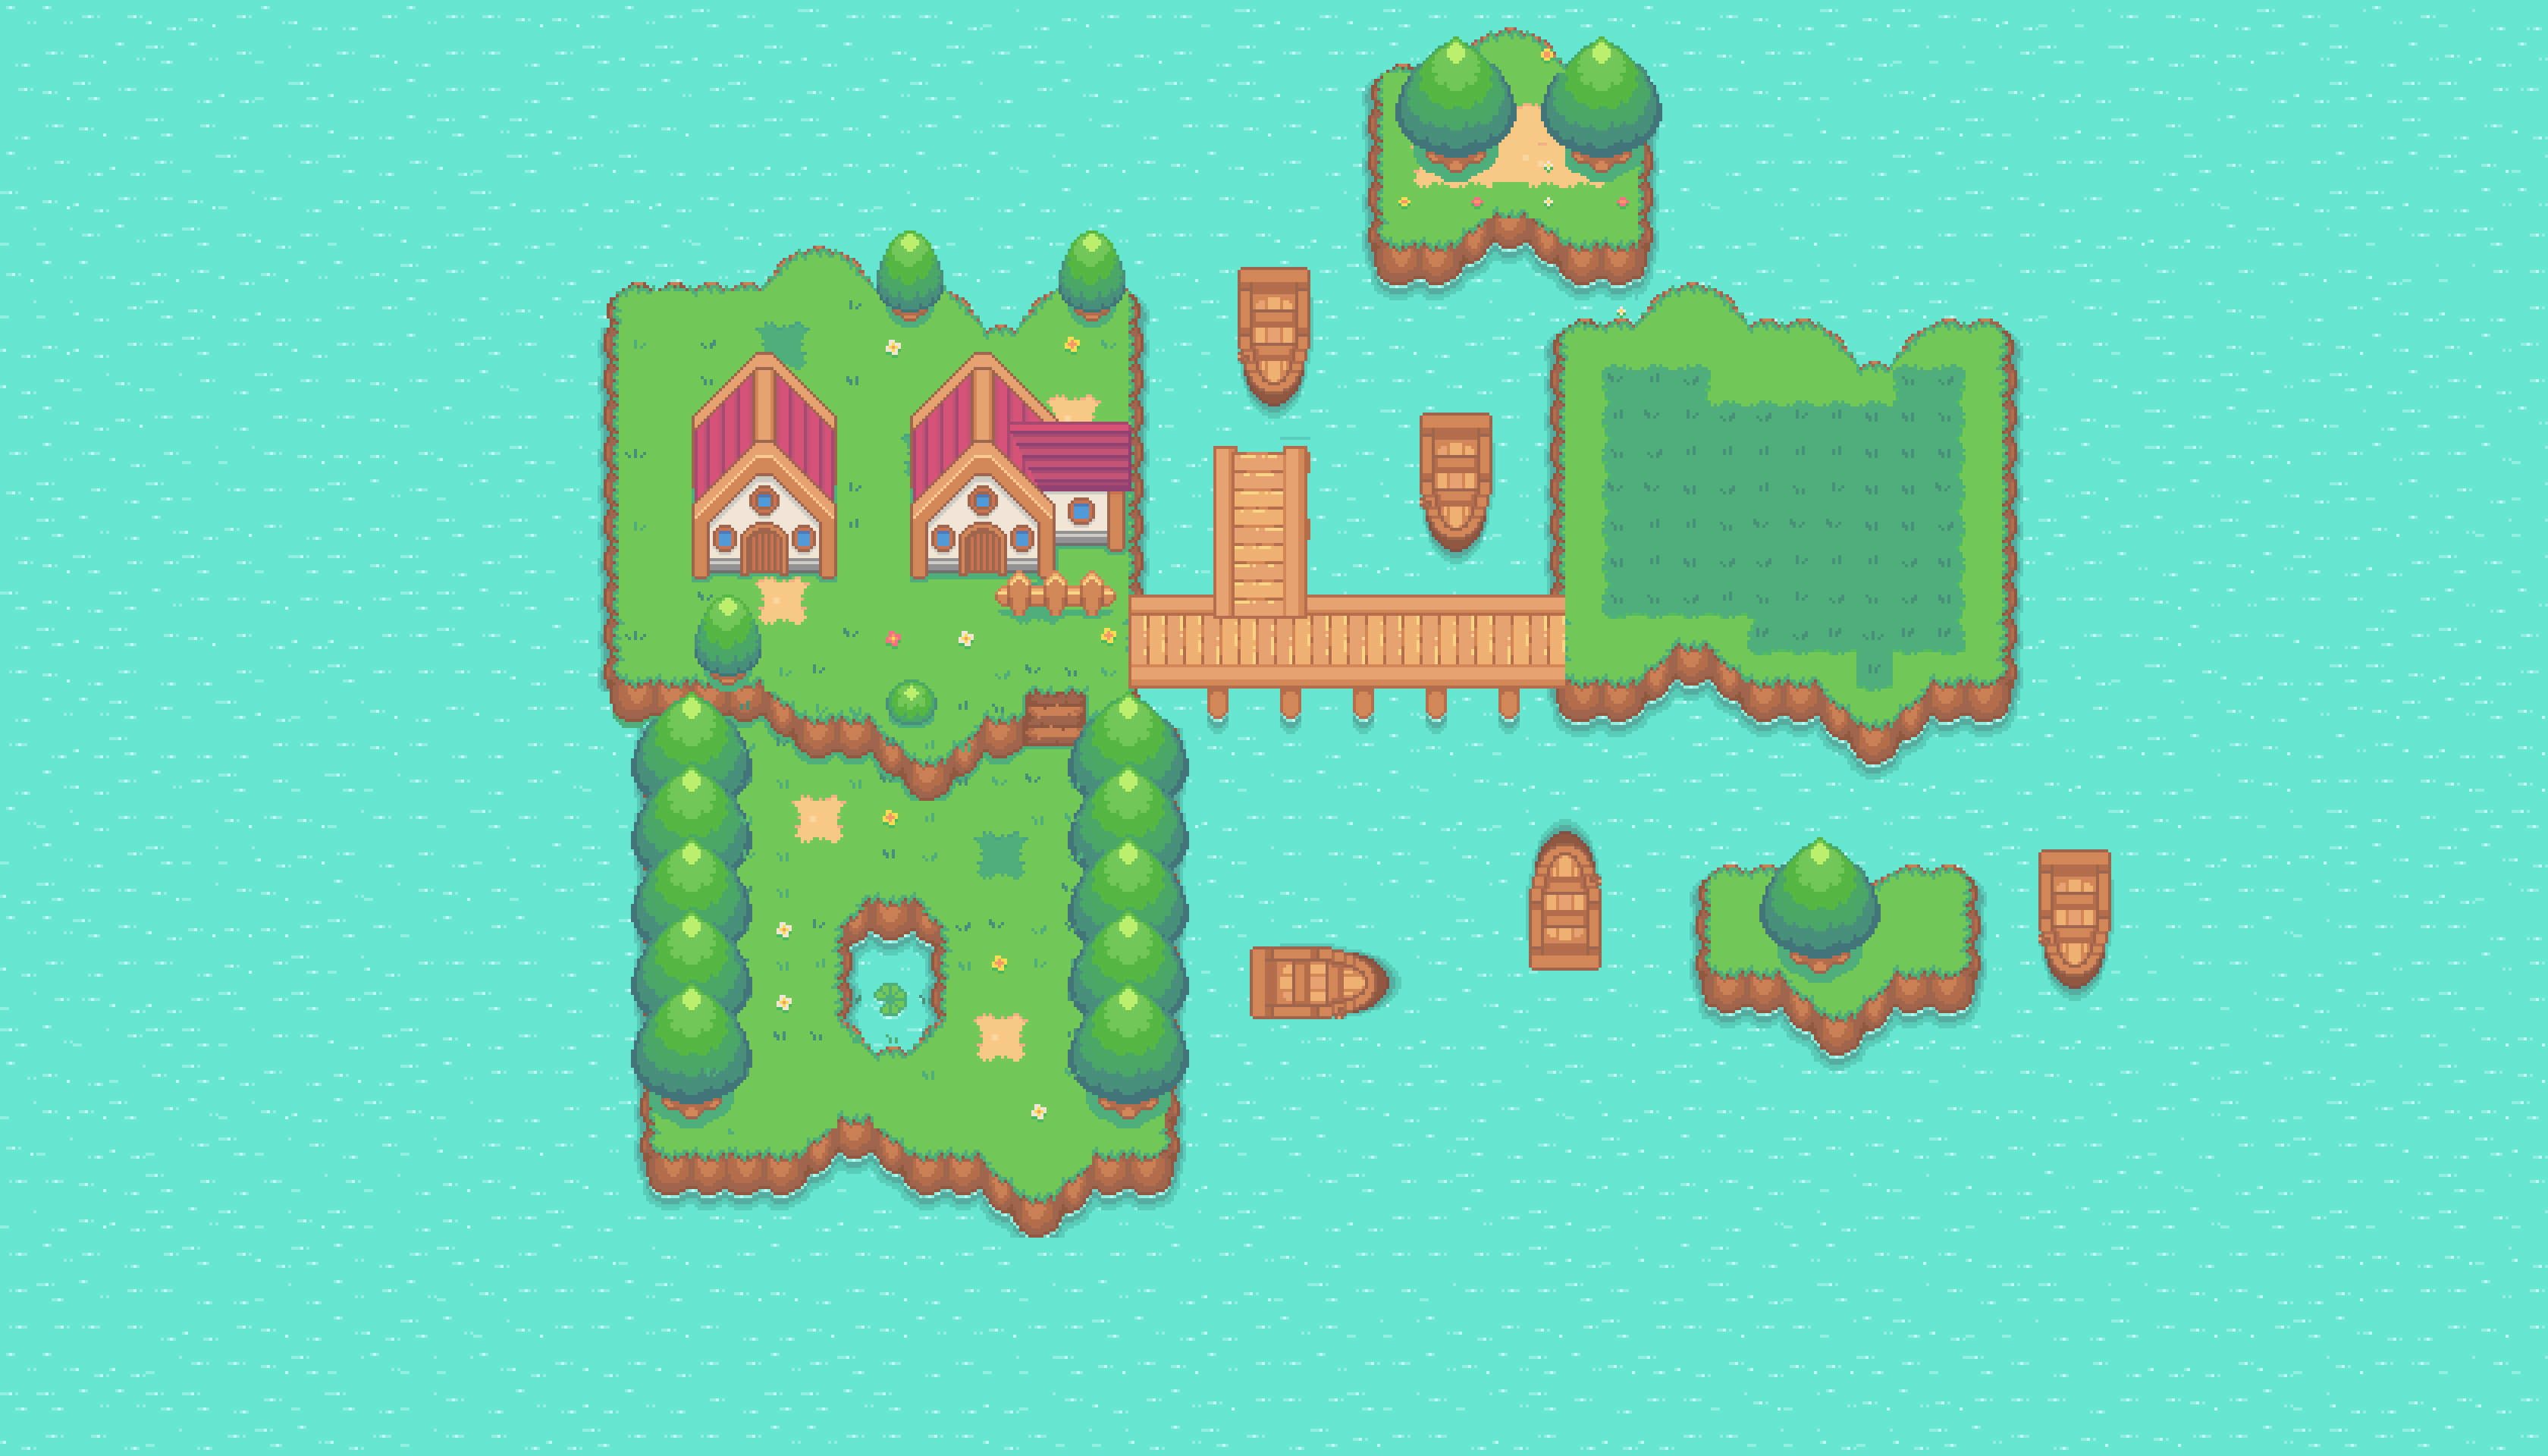
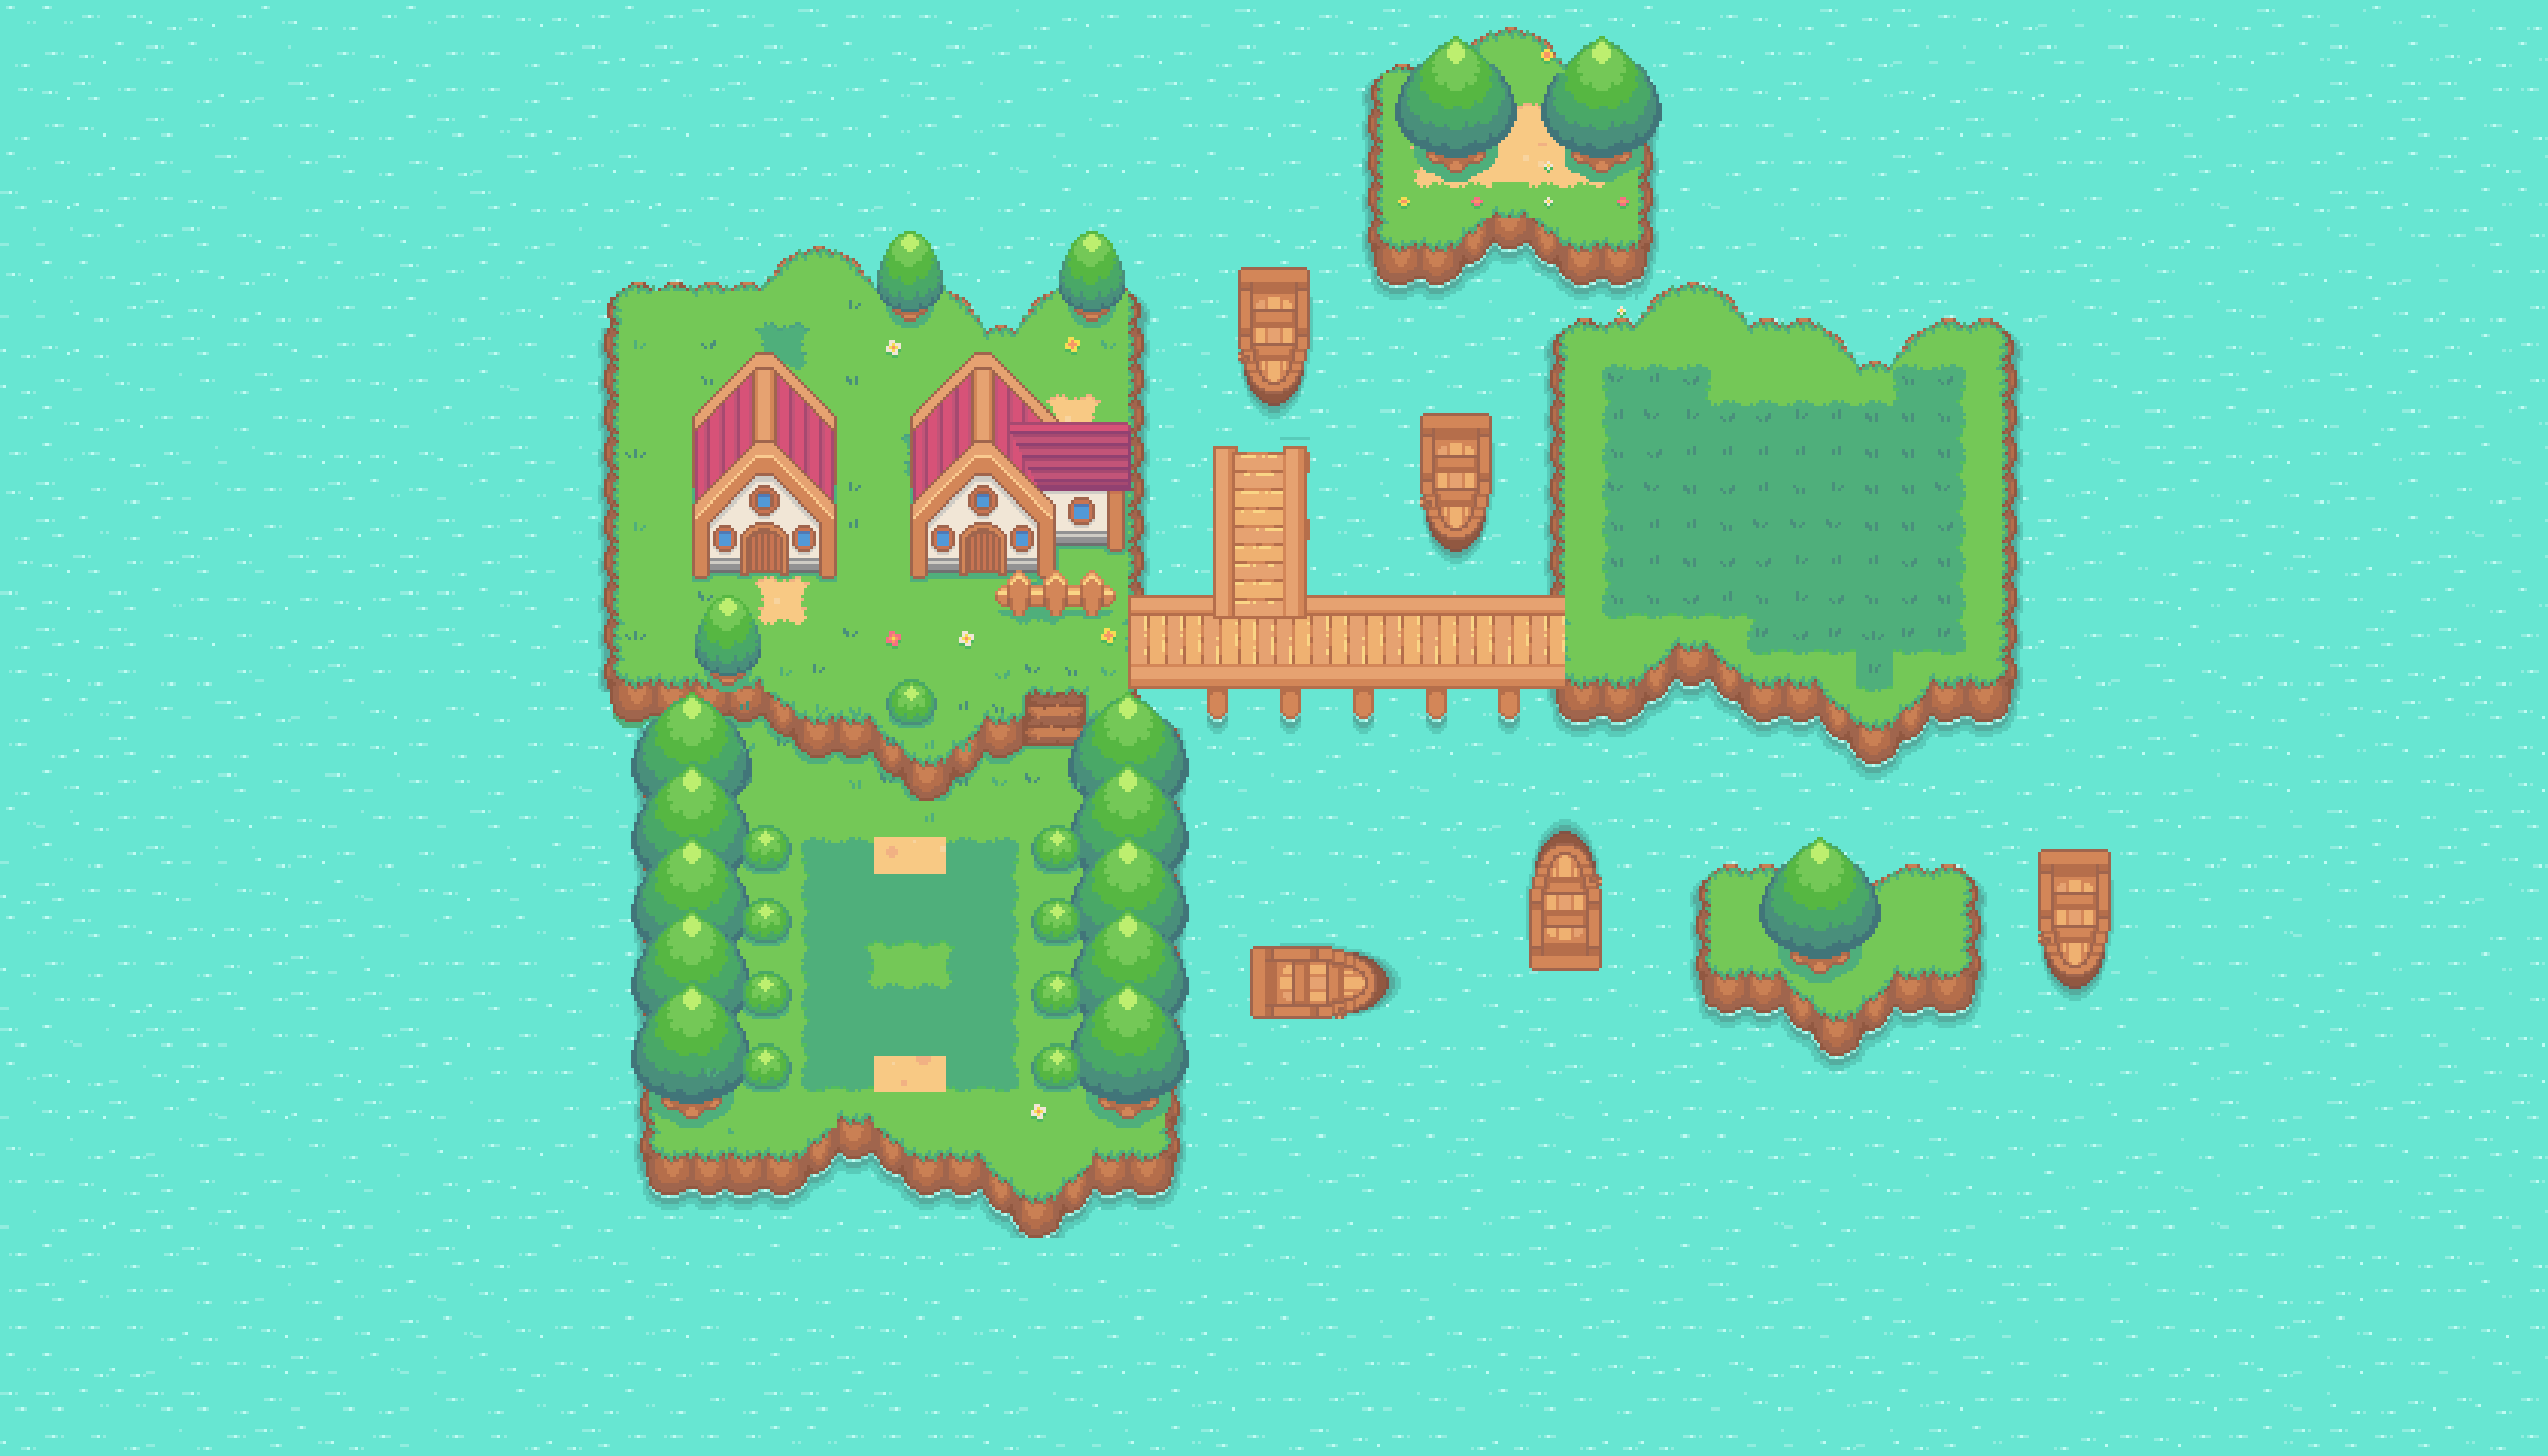
Mapa nuevo

Changed region(s): [[0.2812, 0.5312, 0.4375, 0.75]]

diff --git a/battle.js b/battle.js
@@ -6,6 +6,89 @@ const TIEMPO_CONTEO_CAPTURA = 1000;
 const TIEMPO_RESULTADO_BATALLA = 1800;
 const TIEMPO_ENTRE_ATAQUES = 1500;
 const PROBABILIDAD_CAPTURA = 0.45;
+const NIVEL_BASE_PIKACHU = 25;
+const EXP_POR_VICTORIA = 10;
+const EXP_PARA_SUBIR_NIVEL = 20;
+const NIVEL_MIN_RIVAL = 10;
+const NIVEL_MAX_RIVAL = 50;
+
+let estadisticasPikachu = {
+    nivel: NIVEL_BASE_PIKACHU,
+    experiencia: 0
+};
+
+let nivelRivalActual = 23;
+
+function actualizarPanelNiveles() {
+    const nivelPikachu = document.querySelector('#nivelPikachu');
+    const nivelRival = document.querySelector('#nivelRival');
+    const expPikachu = document.querySelector('#EXP_jugador');
+
+    if (nivelPikachu) nivelPikachu.textContent = `Lv.${estadisticasPikachu.nivel}`;
+    if (nivelRival) nivelRival.textContent = `Lv.${nivelRivalActual}`;
+    if (expPikachu) expPikachu.textContent = `EXP ${estadisticasPikachu.experiencia}/${EXP_PARA_SUBIR_NIVEL}`;
+}
+
+function aplicarEstadisticasPikachu(estadisticas = {}) {
+    estadisticasPikachu.nivel = Number(estadisticas.nivel) || NIVEL_BASE_PIKACHU;
+    estadisticasPikachu.experiencia = Number(estadisticas.experiencia) || 0;
+
+    while (estadisticasPikachu.experiencia >= EXP_PARA_SUBIR_NIVEL) {
+        estadisticasPikachu.nivel++;
+        estadisticasPikachu.experiencia -= EXP_PARA_SUBIR_NIVEL;
+    }
+
+    actualizarPanelNiveles();
+}
+
+function obtenerEstadisticasPikachu() {
+    return {
+        nivel: estadisticasPikachu.nivel,
+        experiencia: estadisticasPikachu.experiencia
+    };
+}
+
+function generarNivelRival() {
+    return Math.floor(Math.random() * (NIVEL_MAX_RIVAL - NIVEL_MIN_RIVAL + 1)) + NIVEL_MIN_RIVAL;
+}
+
+function prepararNuevaBatalla() {
+    nivelRivalActual = generarNivelRival();
+    charmander.nivel = nivelRivalActual;
+    battleActivo.victoriaRegistrada = false;
+    actualizarPanelNiveles();
+}
+
+function registrarVictoriaPikachu() {
+    if (!battleActivo.initiated || battleActivo.victoriaRegistrada) {
+        return {
+            experienciaGanada: 0,
+            subioNivel: false,
+            nivelActual: estadisticasPikachu.nivel
+        };
+    }
+
+    battleActivo.victoriaRegistrada = true;
+    estadisticasPikachu.experiencia += EXP_POR_VICTORIA;
+
+    let subioNivel = false;
+
+    while (estadisticasPikachu.experiencia >= EXP_PARA_SUBIR_NIVEL) {
+        estadisticasPikachu.nivel++;
+        estadisticasPikachu.experiencia -= EXP_PARA_SUBIR_NIVEL;
+        subioNivel = true;
+    }
+
+    actualizarPanelNiveles();
+
+    return {
+        experienciaGanada: EXP_POR_VICTORIA,
+        subioNivel,
+        nivelActual: estadisticasPikachu.nivel
+    };
+}
+
+actualizarPanelNiveles();
 
 // PF3
 // PF3
@@ -92,6 +175,7 @@ function intentarCapturarPokemon() {
 
     const pokemonCapturado = {
         nombre: charmander.name,
+        nivel: charmander.nivel || nivelRivalActual,
         fecha: new Date().toISOString()
     };
     const intentosHastaResultado = Math.random() < PROBABILIDAD_CAPTURA
@@ -221,7 +305,7 @@ function attack(attacker, { attack, recipient, renderSprites }) {
 
     // PF3
     document.querySelector('#dialogoBox').style.display = 'block'
-    document.querySelector('#dialogoBox').innerHTML = attacker.name + ' us?? ' + attack.name;
+    document.querySelector('#dialogoBox').innerHTML = attacker.name + ' usó ' + attack.name;
     const timeLine = gsap.timeline();
 
     // PF3
@@ -463,7 +547,7 @@ function attack(attacker, { attack, recipient, renderSprites }) {
 }
 
 // PF3
-const battleActivo = { initiated: false }
+const battleActivo = { initiated: false, victoriaRegistrada: false }
 
 // PF3
 // PF3

diff --git a/data/arenabattle.js b/data/arenabattle.js
@@ -1,0 +1,40 @@
+const arenaBattle = [0, 0, 0, 0, 0, 0, 0, 0, 0, 0, 0, 0, 0, 0, 0, 0, 0, 0, 0, 0, 0, 0, 0, 0, 0, 0, 0, 0, 0, 0, 0, 0, 0, 0, 0, 0, 0, 0, 0, 0, 0, 0, 0, 0, 0, 0, 0, 0, 0, 0, 0, 0, 0, 0, 0, 0, 0, 0, 0, 0, 0, 0, 0, 0, 0, 0, 0, 0, 0, 0,
+    0, 0, 0, 0, 0, 0, 0, 0, 0, 0, 0, 0, 0, 0, 0, 0, 0, 0, 0, 0, 0, 0, 0, 0, 0, 0, 0, 0, 0, 0, 0, 0, 0, 0, 0, 0, 0, 0, 0, 0, 0, 0, 0, 0, 0, 0, 0, 0, 0, 0, 0, 0, 0, 0, 0, 0, 0, 0, 0, 0, 0, 0, 0, 0, 0, 0, 0, 0, 0, 0,
+    0, 0, 0, 0, 0, 0, 0, 0, 0, 0, 0, 0, 0, 0, 0, 0, 0, 0, 0, 0, 0, 0, 0, 0, 0, 0, 0, 0, 0, 0, 0, 0, 0, 0, 0, 0, 0, 0, 0, 0, 0, 0, 0, 0, 0, 0, 0, 0, 0, 0, 0, 0, 0, 0, 0, 0, 0, 0, 0, 0, 0, 0, 0, 0, 0, 0, 0, 0, 0, 0,
+    0, 0, 0, 0, 0, 0, 0, 0, 0, 0, 0, 0, 0, 0, 0, 0, 0, 0, 0, 0, 0, 0, 0, 0, 0, 0, 0, 0, 0, 0, 0, 0, 0, 0, 0, 0, 0, 0, 0, 0, 0, 0, 0, 0, 0, 0, 0, 0, 0, 0, 0, 0, 0, 0, 0, 0, 0, 0, 0, 0, 0, 0, 0, 0, 0, 0, 0, 0, 0, 0,
+    0, 0, 0, 0, 0, 0, 0, 0, 0, 0, 0, 0, 0, 0, 0, 0, 0, 0, 0, 0, 0, 0, 0, 0, 0, 0, 0, 0, 0, 0, 0, 0, 0, 0, 0, 0, 0, 0, 0, 0, 0, 0, 0, 0, 0, 0, 0, 0, 0, 0, 0, 0, 0, 0, 0, 0, 0, 0, 0, 0, 0, 0, 0, 0, 0, 0, 0, 0, 0, 0,
+    0, 0, 0, 0, 0, 0, 0, 0, 0, 0, 0, 0, 0, 0, 0, 0, 0, 0, 0, 0, 0, 0, 0, 0, 0, 0, 0, 0, 0, 0, 0, 0, 0, 0, 0, 0, 0, 0, 0, 0, 0, 0, 0, 0, 0, 0, 0, 0, 0, 0, 0, 0, 0, 0, 0, 0, 0, 0, 0, 0, 0, 0, 0, 0, 0, 0, 0, 0, 0, 0,
+    0, 0, 0, 0, 0, 0, 0, 0, 0, 0, 0, 0, 0, 0, 0, 0, 0, 0, 0, 0, 0, 0, 0, 0, 0, 0, 0, 0, 0, 0, 0, 0, 0, 0, 0, 0, 0, 0, 0, 0, 0, 0, 0, 0, 0, 0, 0, 0, 0, 0, 0, 0, 0, 0, 0, 0, 0, 0, 0, 0, 0, 0, 0, 0, 0, 0, 0, 0, 0, 0,
+    0, 0, 0, 0, 0, 0, 0, 0, 0, 0, 0, 0, 0, 0, 0, 0, 0, 0, 0, 0, 0, 0, 0, 0, 0, 0, 0, 0, 0, 0, 0, 0, 0, 0, 0, 0, 0, 0, 0, 0, 0, 0, 0, 0, 0, 0, 0, 0, 0, 0, 0, 0, 0, 0, 0, 0, 0, 0, 0, 0, 0, 0, 0, 0, 0, 0, 0, 0, 0, 0,
+    0, 0, 0, 0, 0, 0, 0, 0, 0, 0, 0, 0, 0, 0, 0, 0, 0, 0, 0, 0, 0, 0, 0, 0, 0, 0, 0, 0, 0, 0, 0, 0, 0, 0, 0, 0, 0, 0, 0, 0, 0, 0, 0, 0, 0, 0, 0, 0, 0, 0, 0, 0, 0, 0, 0, 0, 0, 0, 0, 0, 0, 0, 0, 0, 0, 0, 0, 0, 0, 0,
+    0, 0, 0, 0, 0, 0, 0, 0, 0, 0, 0, 0, 0, 0, 0, 0, 0, 0, 0, 0, 0, 0, 0, 0, 0, 0, 0, 0, 0, 0, 0, 0, 0, 0, 0, 0, 0, 0, 0, 0, 0, 0, 0, 0, 0, 0, 0, 0, 0, 0, 0, 0, 0, 0, 0, 0, 0, 0, 0, 0, 0, 0, 0, 0, 0, 0, 0, 0, 0, 0,
+    0, 0, 0, 0, 0, 0, 0, 0, 0, 0, 0, 0, 0, 0, 0, 0, 0, 0, 0, 0, 0, 0, 0, 0, 0, 0, 0, 0, 0, 0, 0, 0, 0, 0, 0, 0, 0, 0, 0, 0, 0, 0, 0, 0, 0, 0, 0, 0, 0, 0, 0, 0, 0, 0, 0, 0, 0, 0, 0, 0, 0, 0, 0, 0, 0, 0, 0, 0, 0, 0,
+    0, 0, 0, 0, 0, 0, 0, 0, 0, 0, 0, 0, 0, 0, 0, 0, 0, 0, 0, 0, 0, 0, 0, 0, 0, 0, 0, 0, 0, 0, 0, 0, 0, 0, 0, 0, 0, 0, 0, 0, 0, 0, 0, 0, 0, 0, 0, 0, 0, 0, 0, 0, 0, 0, 0, 0, 0, 0, 0, 0, 0, 0, 0, 0, 0, 0, 0, 0, 0, 0,
+    0, 0, 0, 0, 0, 0, 0, 0, 0, 0, 0, 0, 0, 0, 0, 0, 0, 0, 0, 0, 0, 0, 0, 0, 0, 0, 0, 0, 0, 0, 0, 0, 0, 0, 0, 0, 0, 0, 0, 0, 0, 0, 0, 0, 0, 0, 0, 0, 0, 0, 0, 0, 0, 0, 0, 0, 0, 0, 0, 0, 0, 0, 0, 0, 0, 0, 0, 0, 0, 0,
+    0, 0, 0, 0, 0, 0, 0, 0, 0, 0, 0, 0, 0, 0, 0, 0, 0, 0, 0, 0, 0, 0, 0, 0, 0, 0, 0, 0, 0, 0, 0, 0, 0, 0, 0, 0, 0, 0, 0, 0, 0, 0, 0, 0, 0, 0, 0, 0, 0, 0, 0, 0, 0, 0, 0, 0, 0, 0, 0, 0, 0, 0, 0, 0, 0, 0, 0, 0, 0, 0,
+    0, 0, 0, 0, 0, 0, 0, 0, 0, 0, 0, 0, 0, 0, 0, 0, 0, 0, 0, 0, 0, 0, 0, 0, 0, 0, 0, 0, 0, 0, 0, 0, 0, 0, 0, 0, 0, 0, 0, 0, 0, 0, 0, 0, 0, 0, 0, 0, 0, 0, 0, 0, 0, 0, 0, 0, 0, 0, 0, 0, 0, 0, 0, 0, 0, 0, 0, 0, 0, 0,
+    0, 0, 0, 0, 0, 0, 0, 0, 0, 0, 0, 0, 0, 0, 0, 0, 0, 0, 0, 0, 0, 0, 0, 0, 0, 0, 0, 0, 0, 0, 0, 0, 0, 0, 0, 0, 0, 0, 0, 0, 0, 0, 0, 0, 0, 0, 0, 0, 0, 0, 0, 0, 0, 0, 0, 0, 0, 0, 0, 0, 0, 0, 0, 0, 0, 0, 0, 0, 0, 0,
+    0, 0, 0, 0, 0, 0, 0, 0, 0, 0, 0, 0, 0, 0, 0, 0, 0, 0, 0, 0, 0, 0, 0, 0, 0, 0, 0, 0, 0, 0, 0, 0, 0, 0, 0, 0, 0, 0, 0, 0, 0, 0, 0, 0, 0, 0, 0, 0, 0, 0, 0, 0, 0, 0, 0, 0, 0, 0, 0, 0, 0, 0, 0, 0, 0, 0, 0, 0, 0, 0,
+    0, 0, 0, 0, 0, 0, 0, 0, 0, 0, 0, 0, 0, 0, 0, 0, 0, 0, 0, 0, 0, 0, 0, 0, 0, 0, 0, 0, 0, 0, 0, 0, 0, 0, 0, 0, 0, 0, 0, 0, 0, 0, 0, 0, 0, 0, 0, 0, 0, 0, 0, 0, 0, 0, 0, 0, 0, 0, 0, 0, 0, 0, 0, 0, 0, 0, 0, 0, 0, 0,
+    0, 0, 0, 0, 0, 0, 0, 0, 0, 0, 0, 0, 0, 0, 0, 0, 0, 0, 0, 0, 0, 0, 0, 0, 0, 0, 0, 0, 0, 0, 0, 0, 0, 0, 0, 0, 0, 0, 0, 0, 0, 0, 0, 0, 0, 0, 0, 0, 0, 0, 0, 0, 0, 0, 0, 0, 0, 0, 0, 0, 0, 0, 0, 0, 0, 0, 0, 0, 0, 0,
+    0, 0, 0, 0, 0, 0, 0, 0, 0, 0, 0, 0, 0, 0, 0, 0, 0, 0, 0, 0, 0, 0, 0, 0, 0, 0, 0, 0, 0, 0, 0, 0, 0, 0, 0, 0, 0, 0, 0, 0, 0, 0, 0, 0, 0, 0, 0, 0, 0, 0, 0, 0, 0, 0, 0, 0, 0, 0, 0, 0, 0, 0, 0, 0, 0, 0, 0, 0, 0, 0,
+    0, 0, 0, 0, 0, 0, 0, 0, 0, 0, 0, 0, 0, 0, 0, 0, 0, 0, 0, 0, 0, 0, 0, 0, 0, 0, 0, 0, 0, 0, 0, 0, 0, 0, 0, 0, 0, 0, 0, 0, 0, 0, 0, 0, 0, 0, 0, 0, 0, 0, 0, 0, 0, 0, 0, 0, 0, 0, 0, 0, 0, 0, 0, 0, 0, 0, 0, 0, 0, 0,
+    0, 0, 0, 0, 0, 0, 0, 0, 0, 0, 0, 0, 0, 0, 0, 0, 0, 0, 0, 0, 0, 0, 0, 0, 0, 0, 0, 0, 0, 0, 0, 0, 0, 0, 0, 0, 0, 0, 0, 0, 0, 0, 0, 0, 0, 0, 0, 0, 0, 0, 0, 0, 0, 0, 0, 0, 0, 0, 0, 0, 0, 0, 0, 0, 0, 0, 0, 0, 0, 0,
+    0, 0, 0, 0, 0, 0, 0, 0, 0, 0, 0, 0, 0, 0, 0, 0, 0, 0, 0, 0, 0, 0, 0, 0, 0, 0, 0, 0, 0, 0, 0, 0, 0, 0, 0, 0, 0, 0, 0, 0, 0, 0, 0, 0, 0, 0, 0, 0, 0, 0, 0, 0, 0, 0, 0, 0, 0, 0, 0, 0, 0, 0, 0, 0, 0, 0, 0, 0, 0, 0,
+    0, 0, 0, 0, 0, 0, 0, 0, 0, 0, 0, 0, 0, 0, 0, 0, 0, 0, 0, 0, 0, 0, 1025, 1025, 1025, 1025, 1025, 1025, 0, 0, 0, 0, 0, 0, 0, 0, 0, 0, 0, 0, 0, 0, 0, 0, 0, 0, 0, 0, 0, 0, 0, 0, 0, 0, 0, 0, 0, 0, 0, 0, 0, 0, 0, 0, 0, 0, 0, 0, 0, 0,
+    0, 0, 0, 0, 0, 0, 0, 0, 0, 0, 0, 0, 0, 0, 0, 0, 0, 0, 0, 0, 0, 0, 1025, 1025, 1025, 1025, 1025, 1025, 0, 0, 0, 0, 0, 0, 0, 0, 0, 0, 0, 0, 0, 0, 0, 0, 0, 0, 0, 0, 0, 0, 0, 0, 0, 0, 0, 0, 0, 0, 0, 0, 0, 0, 0, 0, 0, 0, 0, 0, 0, 0,
+    0, 0, 0, 0, 0, 0, 0, 0, 0, 0, 0, 0, 0, 0, 0, 0, 0, 0, 0, 0, 0, 0, 1025, 1025, 1025, 1025, 1025, 1025, 0, 0, 0, 0, 0, 0, 0, 0, 0, 0, 0, 0, 0, 0, 0, 0, 0, 0, 0, 0, 0, 0, 0, 0, 0, 0, 0, 0, 0, 0, 0, 0, 0, 0, 0, 0, 0, 0, 0, 0, 0, 0,
+    0, 0, 0, 0, 0, 0, 0, 0, 0, 0, 0, 0, 0, 0, 0, 0, 0, 0, 0, 0, 0, 0, 1025, 1025, 1025, 1025, 1025, 1025, 0, 0, 0, 0, 0, 0, 0, 0, 0, 0, 0, 0, 0, 0, 0, 0, 0, 0, 0, 0, 0, 0, 0, 0, 0, 0, 0, 0, 0, 0, 0, 0, 0, 0, 0, 0, 0, 0, 0, 0, 0, 0,
+    0, 0, 0, 0, 0, 0, 0, 0, 0, 0, 0, 0, 0, 0, 0, 0, 0, 0, 0, 0, 0, 0, 1025, 1025, 1025, 1025, 1025, 1025, 0, 0, 0, 0, 0, 0, 0, 0, 0, 0, 0, 0, 0, 0, 0, 0, 0, 0, 0, 0, 0, 0, 0, 0, 0, 0, 0, 0, 0, 0, 0, 0, 0, 0, 0, 0, 0, 0, 0, 0, 0, 0,
+    0, 0, 0, 0, 0, 0, 0, 0, 0, 0, 0, 0, 0, 0, 0, 0, 0, 0, 0, 0, 0, 0, 1025, 1025, 1025, 1025, 1025, 1025, 0, 0, 0, 0, 0, 0, 0, 0, 0, 0, 0, 0, 0, 0, 0, 0, 0, 0, 0, 0, 0, 0, 0, 0, 0, 0, 0, 0, 0, 0, 0, 0, 0, 0, 0, 0, 0, 0, 0, 0, 0, 0,
+    0, 0, 0, 0, 0, 0, 0, 0, 0, 0, 0, 0, 0, 0, 0, 0, 0, 0, 0, 0, 0, 0, 1025, 1025, 1025, 1025, 1025, 1025, 0, 0, 0, 0, 0, 0, 0, 0, 0, 0, 0, 0, 0, 0, 0, 0, 0, 0, 0, 0, 0, 0, 0, 0, 0, 0, 0, 0, 0, 0, 0, 0, 0, 0, 0, 0, 0, 0, 0, 0, 0, 0,
+    0, 0, 0, 0, 0, 0, 0, 0, 0, 0, 0, 0, 0, 0, 0, 0, 0, 0, 0, 0, 0, 0, 0, 0, 0, 0, 0, 0, 0, 0, 0, 0, 0, 0, 0, 0, 0, 0, 0, 0, 0, 0, 0, 0, 0, 0, 0, 0, 0, 0, 0, 0, 0, 0, 0, 0, 0, 0, 0, 0, 0, 0, 0, 0, 0, 0, 0, 0, 0, 0,
+    0, 0, 0, 0, 0, 0, 0, 0, 0, 0, 0, 0, 0, 0, 0, 0, 0, 0, 0, 0, 0, 0, 0, 0, 0, 0, 0, 0, 0, 0, 0, 0, 0, 0, 0, 0, 0, 0, 0, 0, 0, 0, 0, 0, 0, 0, 0, 0, 0, 0, 0, 0, 0, 0, 0, 0, 0, 0, 0, 0, 0, 0, 0, 0, 0, 0, 0, 0, 0, 0,
+    0, 0, 0, 0, 0, 0, 0, 0, 0, 0, 0, 0, 0, 0, 0, 0, 0, 0, 0, 0, 0, 0, 0, 0, 0, 0, 0, 0, 0, 0, 0, 0, 0, 0, 0, 0, 0, 0, 0, 0, 0, 0, 0, 0, 0, 0, 0, 0, 0, 0, 0, 0, 0, 0, 0, 0, 0, 0, 0, 0, 0, 0, 0, 0, 0, 0, 0, 0, 0, 0,
+    0, 0, 0, 0, 0, 0, 0, 0, 0, 0, 0, 0, 0, 0, 0, 0, 0, 0, 0, 0, 0, 0, 0, 0, 0, 0, 0, 0, 0, 0, 0, 0, 0, 0, 0, 0, 0, 0, 0, 0, 0, 0, 0, 0, 0, 0, 0, 0, 0, 0, 0, 0, 0, 0, 0, 0, 0, 0, 0, 0, 0, 0, 0, 0, 0, 0, 0, 0, 0, 0,
+    0, 0, 0, 0, 0, 0, 0, 0, 0, 0, 0, 0, 0, 0, 0, 0, 0, 0, 0, 0, 0, 0, 0, 0, 0, 0, 0, 0, 0, 0, 0, 0, 0, 0, 0, 0, 0, 0, 0, 0, 0, 0, 0, 0, 0, 0, 0, 0, 0, 0, 0, 0, 0, 0, 0, 0, 0, 0, 0, 0, 0, 0, 0, 0, 0, 0, 0, 0, 0, 0,
+    0, 0, 0, 0, 0, 0, 0, 0, 0, 0, 0, 0, 0, 0, 0, 0, 0, 0, 0, 0, 0, 0, 0, 0, 0, 0, 0, 0, 0, 0, 0, 0, 0, 0, 0, 0, 0, 0, 0, 0, 0, 0, 0, 0, 0, 0, 0, 0, 0, 0, 0, 0, 0, 0, 0, 0, 0, 0, 0, 0, 0, 0, 0, 0, 0, 0, 0, 0, 0, 0,
+    0, 0, 0, 0, 0, 0, 0, 0, 0, 0, 0, 0, 0, 0, 0, 0, 0, 0, 0, 0, 0, 0, 0, 0, 0, 0, 0, 0, 0, 0, 0, 0, 0, 0, 0, 0, 0, 0, 0, 0, 0, 0, 0, 0, 0, 0, 0, 0, 0, 0, 0, 0, 0, 0, 0, 0, 0, 0, 0, 0, 0, 0, 0, 0, 0, 0, 0, 0, 0, 0,
+    0, 0, 0, 0, 0, 0, 0, 0, 0, 0, 0, 0, 0, 0, 0, 0, 0, 0, 0, 0, 0, 0, 0, 0, 0, 0, 0, 0, 0, 0, 0, 0, 0, 0, 0, 0, 0, 0, 0, 0, 0, 0, 0, 0, 0, 0, 0, 0, 0, 0, 0, 0, 0, 0, 0, 0, 0, 0, 0, 0, 0, 0, 0, 0, 0, 0, 0, 0, 0, 0,
+    0, 0, 0, 0, 0, 0, 0, 0, 0, 0, 0, 0, 0, 0, 0, 0, 0, 0, 0, 0, 0, 0, 0, 0, 0, 0, 0, 0, 0, 0, 0, 0, 0, 0, 0, 0, 0, 0, 0, 0, 0, 0, 0, 0, 0, 0, 0, 0, 0, 0, 0, 0, 0, 0, 0, 0, 0, 0, 0, 0, 0, 0, 0, 0, 0, 0, 0, 0, 0, 0,
+    0, 0, 0, 0, 0, 0, 0, 0, 0, 0, 0, 0, 0, 0, 0, 0, 0, 0, 0, 0, 0, 0, 0, 0, 0, 0, 0, 0, 0, 0, 0, 0, 0, 0, 0, 0, 0, 0, 0, 0, 0, 0, 0, 0, 0, 0, 0, 0, 0, 0, 0, 0, 0, 0, 0, 0, 0, 0, 0, 0, 0, 0, 0, 0, 0, 0, 0, 0, 0, 0],

diff --git a/menu_bolsa.js b/menu_bolsa.js
@@ -79,8 +79,10 @@ function crearEstadoPartida() {
         batalla: {
             activa: battleActivo.initiated,
             pikachuVida: pikachu.health,
-            rivalVida: charmander.health
+            rivalVida: charmander.health,
+            rivalNivel: charmander.nivel || nivelRivalActual
         },
+        pokemonPrincipal: obtenerEstadisticasPikachu(),
         pokemonesCapturados: obtenerPokemonesCapturados()
     };
 }
@@ -113,9 +115,13 @@ function aplicarEstadoPartida(estado) {
     if (estado.batalla) {
         pikachu.health = estado.batalla.pikachuVida ?? 100;
         charmander.health = estado.batalla.rivalVida ?? 100;
+        nivelRivalActual = estado.batalla.rivalNivel ?? nivelRivalActual;
+        charmander.nivel = nivelRivalActual;
         document.querySelector('#HP_jugador .hp-fill').style.width = pikachu.health + '%';
         document.querySelector('#HP_rival .hp-fill').style.width = charmander.health + '%';
     }
+
+    aplicarEstadisticasPikachu(estado.pokemonPrincipal);
 
     if (Array.isArray(estado.pokemonesCapturados)) {
         guardarPokemonesCapturados(estado.pokemonesCapturados);
@@ -126,6 +132,10 @@ function reanudarBatallaGuardada(estado) {
     if (!estado || !estado.batalla || !estado.batalla.activa) return false;
 
     battleActivo.initiated = true;
+    battleActivo.victoriaRegistrada = false;
+    nivelRivalActual = estado.batalla.rivalNivel ?? nivelRivalActual;
+    charmander.nivel = nivelRivalActual;
+    actualizarPanelNiveles();
 
     gsap.set(pikachu, { opacity: 1 });
     gsap.set(charmander, { opacity: 1 });
@@ -174,7 +184,12 @@ function renderListaCapturados() {
 
     return `
         <ul class="menu-bolsa-lista">
-            ${capturados.map((pokemon) => `<li>${limpiarTexto(pokemon.nombre || pokemon)}</li>`).join('')}
+            ${capturados.map((pokemon) => {
+                const nombre = limpiarTexto(pokemon.nombre || pokemon);
+                const nivel = pokemon.nivel ? ` - Lv.${limpiarTexto(pokemon.nivel)}` : '';
+
+                return `<li>${nombre}${nivel}</li>`;
+            }).join('')}
         </ul>
     `;
 }

diff --git a/data/collision.js b/data/collision.js
@@ -21,13 +21,13 @@ const collisions = [0, 0, 0, 0, 0, 0, 0, 0, 0, 0, 0, 0, 0, 0, 0, 0, 0, 0, 0, 0, 
     0, 0, 0, 0, 0, 0, 0, 0, 0, 0, 0, 0, 0, 0, 0, 0, 0, 0, 0, 1025, 0, 0, 1025, 1025, 1025, 0, 1025, 1025, 0, 0, 1025, 0, 0, 0, 0, 0, 0, 0, 0, 0, 0, 0, 0, 0, 0, 0, 0, 0, 0, 0, 1025, 1025, 1025, 0, 0, 0, 0, 0, 0, 0, 0, 0, 0, 0, 0, 0, 0, 0, 0, 0,
     0, 0, 0, 0, 0, 0, 0, 0, 0, 0, 0, 0, 0, 0, 0, 0, 0, 0, 0, 1025, 0, 0, 0, 0, 0, 1025, 0, 0, 0, 0, 1025, 0, 0, 0, 0, 0, 0, 0, 0, 0, 0, 0, 0, 0, 0, 0, 0, 0, 0, 0, 0, 0, 0, 0, 0, 0, 0, 0, 0, 0, 0, 0, 0, 0, 0, 0, 0, 0, 0, 0,
     0, 0, 0, 0, 0, 0, 0, 0, 0, 0, 0, 0, 0, 0, 0, 0, 0, 0, 0, 1025, 0, 0, 0, 0, 0, 0, 0, 0, 0, 0, 1025, 0, 0, 0, 0, 0, 0, 0, 0, 0, 0, 0, 0, 0, 0, 0, 0, 0, 0, 0, 0, 0, 0, 0, 0, 0, 0, 0, 0, 0, 0, 0, 0, 0, 0, 0, 0, 0, 0, 0,
-    0, 0, 0, 0, 0, 0, 0, 0, 0, 0, 0, 0, 0, 0, 0, 0, 0, 0, 0, 1025, 0, 0, 0, 0, 0, 0, 0, 0, 0, 0, 1025, 0, 0, 0, 0, 0, 0, 0, 0, 0, 0, 0, 1025, 1025, 0, 0, 1025, 1025, 1025, 1025, 1025, 1025, 1025, 1025, 1025, 0, 1025, 1025, 0, 0, 0, 0, 0, 0, 0, 0, 0, 0, 0, 0,
+    0, 0, 0, 0, 0, 0, 0, 0, 0, 0, 0, 0, 0, 0, 0, 0, 0, 0, 0, 1025, 1025, 1025, 0, 0, 0, 0, 0, 0, 1025, 1025, 1025, 0, 0, 0, 0, 0, 0, 0, 0, 0, 0, 0, 1025, 1025, 0, 0, 1025, 1025, 1025, 1025, 1025, 1025, 1025, 1025, 1025, 0, 1025, 1025, 0, 0, 0, 0, 0, 0, 0, 0, 0, 0, 0, 0,
     0, 0, 0, 0, 0, 0, 0, 0, 0, 0, 0, 0, 0, 0, 0, 0, 0, 0, 0, 1025, 0, 0, 0, 0, 0, 0, 0, 0, 0, 0, 1025, 0, 0, 0, 0, 0, 0, 0, 0, 0, 0, 0, 1025, 1025, 0, 0, 1025, 0, 1025, 1025, 1025, 1025, 0, 0, 1025, 0, 1025, 1025, 0, 0, 0, 0, 0, 0, 0, 0, 0, 0, 0, 0,
-    0, 0, 0, 0, 0, 0, 0, 0, 0, 0, 0, 0, 0, 0, 0, 0, 0, 0, 0, 1025, 0, 0, 0, 1025, 1025, 1025, 0, 0, 0, 0, 1025, 0, 0, 0, 0, 0, 0, 0, 0, 0, 0, 0, 1025, 1025, 0, 0, 1025, 0, 1025, 1025, 1025, 1025, 0, 0, 1025, 0, 1025, 1025, 0, 0, 0, 0, 0, 0, 0, 0, 0, 0, 0, 0,
-    0, 0, 0, 0, 0, 0, 0, 0, 0, 0, 0, 0, 0, 0, 0, 0, 0, 0, 0, 1025, 0, 0, 0, 1025, 0, 1025, 0, 0, 0, 0, 1025, 0, 0, 0, 1025, 1025, 1025, 1025, 0, 0, 0, 0, 1025, 1025, 0, 0, 1025, 0, 0, 1025, 1025, 0, 0, 0, 1025, 0, 1025, 1025, 0, 0, 0, 0, 0, 0, 0, 0, 0, 0, 0, 0,
-    0, 0, 0, 0, 0, 0, 0, 0, 0, 0, 0, 0, 0, 0, 0, 0, 0, 0, 0, 1025, 0, 0, 0, 1025, 0, 1025, 0, 0, 0, 0, 1025, 0, 0, 0, 1025, 1025, 1025, 1025, 0, 0, 0, 0, 0, 0, 0, 0, 0, 1025, 1025, 1025, 0, 1025, 1025, 1025, 1025, 0, 0, 0, 0, 0, 0, 0, 0, 0, 0, 0, 0, 0, 0, 0,
-    0, 0, 0, 0, 0, 0, 0, 0, 0, 0, 0, 0, 0, 0, 0, 0, 0, 0, 0, 1025, 0, 0, 0, 1025, 1025, 1025, 0, 0, 0, 0, 1025, 0, 0, 0, 0, 0, 0, 0, 0, 0, 0, 0, 0, 0, 0, 0, 0, 0, 0, 0, 1025, 0, 0, 0, 0, 0, 0, 0, 0, 0, 0, 0, 0, 0, 0, 0, 0, 0, 0, 0,
-    0, 0, 0, 0, 0, 0, 0, 0, 0, 0, 0, 0, 0, 0, 0, 0, 0, 0, 1025, 1025, 0, 0, 0, 0, 0, 0, 0, 0, 0, 0, 1025, 1025, 0, 0, 0, 0, 0, 0, 0, 0, 0, 0, 0, 0, 0, 0, 0, 0, 0, 0, 0, 0, 0, 0, 0, 0, 0, 0, 0, 0, 0, 0, 0, 0, 0, 0, 0, 0, 0, 0,
+    0, 0, 0, 0, 0, 0, 0, 0, 0, 0, 0, 0, 0, 0, 0, 0, 0, 0, 0, 1025, 1025, 1025, 0, 0, 0, 0, 0, 0, 1025, 1025, 1025, 0, 0, 0, 0, 0, 0, 0, 0, 0, 0, 0, 1025, 1025, 0, 0, 1025, 0, 1025, 1025, 1025, 1025, 0, 0, 1025, 0, 1025, 1025, 0, 0, 0, 0, 0, 0, 0, 0, 0, 0, 0, 0,
+    0, 0, 0, 0, 0, 0, 0, 0, 0, 0, 0, 0, 0, 0, 0, 0, 0, 0, 0, 1025, 0, 0, 0, 0, 0, 0, 0, 0, 0, 0, 1025, 0, 0, 0, 1025, 1025, 1025, 1025, 0, 0, 0, 0, 1025, 1025, 0, 0, 1025, 0, 0, 1025, 1025, 0, 0, 0, 1025, 0, 1025, 1025, 0, 0, 0, 0, 0, 0, 0, 0, 0, 0, 0, 0,
+    0, 0, 0, 0, 0, 0, 0, 0, 0, 0, 0, 0, 0, 0, 0, 0, 0, 0, 0, 1025, 1025, 1025, 0, 0, 0, 0, 0, 0, 1025, 1025, 1025, 0, 0, 0, 1025, 1025, 1025, 1025, 0, 0, 0, 0, 0, 0, 0, 0, 0, 1025, 1025, 1025, 0, 1025, 1025, 1025, 1025, 0, 0, 0, 0, 0, 0, 0, 0, 0, 0, 0, 0, 0, 0, 0,
+    0, 0, 0, 0, 0, 0, 0, 0, 0, 0, 0, 0, 0, 0, 0, 0, 0, 0, 0, 1025, 0, 0, 0, 0, 0, 0, 0, 0, 0, 0, 1025, 0, 0, 0, 0, 0, 0, 0, 0, 0, 0, 0, 0, 0, 0, 0, 0, 0, 0, 0, 1025, 0, 0, 0, 0, 0, 0, 0, 0, 0, 0, 0, 0, 0, 0, 0, 0, 0, 0, 0,
+    0, 0, 0, 0, 0, 0, 0, 0, 0, 0, 0, 0, 0, 0, 0, 0, 0, 0, 1025, 1025, 1025, 1025, 0, 0, 0, 0, 0, 0, 1025, 1025, 1025, 1025, 0, 0, 0, 0, 0, 0, 0, 0, 0, 0, 0, 0, 0, 0, 0, 0, 0, 0, 0, 0, 0, 0, 0, 0, 0, 0, 0, 0, 0, 0, 0, 0, 0, 0, 0, 0, 0, 0,
     0, 0, 0, 0, 0, 0, 0, 0, 0, 0, 0, 0, 0, 0, 0, 0, 0, 1025, 0, 0, 0, 0, 0, 0, 0, 0, 0, 0, 0, 0, 0, 0, 1025, 0, 0, 0, 0, 0, 0, 0, 0, 0, 0, 0, 0, 0, 0, 0, 0, 0, 0, 0, 0, 0, 0, 0, 0, 0, 0, 0, 0, 0, 0, 0, 0, 0, 0, 0, 0, 0,
     0, 0, 0, 0, 0, 0, 0, 0, 0, 0, 0, 0, 0, 0, 0, 0, 0, 1025, 0, 0, 0, 0, 1025, 1025, 1025, 0, 0, 0, 0, 0, 0, 0, 1025, 0, 0, 0, 0, 0, 0, 0, 0, 0, 0, 0, 0, 0, 0, 0, 0, 0, 0, 0, 0, 0, 0, 0, 0, 0, 0, 0, 0, 0, 0, 0, 0, 0, 0, 0, 0, 0,
     0, 0, 0, 0, 0, 0, 0, 0, 0, 0, 0, 0, 0, 0, 0, 0, 0, 0, 1025, 1025, 1025, 1025, 0, 0, 0, 1025, 1025, 1025, 0, 1025, 1025, 1025, 1025, 0, 0, 0, 0, 0, 0, 0, 0, 0, 0, 0, 0, 0, 0, 0, 0, 0, 0, 0, 0, 0, 0, 0, 0, 0, 0, 0, 0, 0, 0, 0, 0, 0, 0, 0, 0, 0,

diff --git a/classes.js b/classes.js
@@ -82,9 +82,16 @@ class Sprite {
         dialogo.style.display = 'block';
 
         if (this.isEnemy) {
-            dialogo.innerHTML = this.name + ' ha muerto!<br>??Has ganado la batalla!';
+            const resultado = typeof registrarVictoriaPikachu === 'function'
+                ? registrarVictoriaPikachu()
+                : { experienciaGanada: 0, subioNivel: false, nivelActual: 25 };
+            const mensajeNivel = resultado.subioNivel
+                ? `<br>Pikachu subio a Lv.${resultado.nivelActual}!`
+                : '';
+
+            dialogo.innerHTML = `${this.name} ha sido debilitado!<br>Has ganado la batalla!<br>+${resultado.experienciaGanada} EXP${mensajeNivel}`;
         } else {
-            dialogo.innerHTML = this.name + ' ha muerto!<br>Has perdido la batalla...';
+            dialogo.innerHTML = this.name + ' ha sido debilitado!<br>Has perdido la batalla...';
         }
 
         gsap.to(this.posicion, {

diff --git a/styles.css b/styles.css
@@ -256,6 +256,12 @@ body {
     margin-top: 6px;
 }
 
+.exp-info {
+    font-size: 9px;
+    margin-top: 8px;
+    text-align: right;
+}
+
 .hidden {
     display: none !important;
 }

diff --git a/game.html b/game.html
@@ -35,7 +35,7 @@
             <div class="pokemon-status rival">
                 <div class="pokemon-header">
                     <span class="name">CHARMANDER</span>
-                    <span class="level">Lv.23</span>
+                    <span id="nivelRival" class="level">Lv.23</span>
                 </div>
 
                 <div id="HP_rival" class="hp-bar-container">
@@ -49,7 +49,7 @@
             <div class="pokemon-status player">
                 <div class="pokemon-header">
                     <span class="name">PIKACHU</span>
-                    <span class="level">Lv.25</span>
+                    <span id="nivelPikachu" class="level">Lv.25</span>
                 </div>
 
                 <div id="HP_jugador" class="hp-bar-container">
@@ -58,6 +58,7 @@
                         <div class="hp-fill"></div>
                     </div>
                 </div>
+                <div id="EXP_jugador" class="exp-info">EXP 0/20</div>
             </div>
         </div>
 

diff --git a/data/attacks.js b/data/attacks.js
@@ -24,6 +24,7 @@ const ataquesCharmander = {
     },
     collejon: {
         name: 'collejon',
-        damage: 80
+        damage: 30
     },
 };
+

diff --git a/script.js b/script.js
@@ -52,6 +52,7 @@ function animate() {
                 gsap.set(charmander, { opacity: 1 });
                 gsap.set(pikachu.posicion, { x: 380, y: 490 });
                 gsap.set(charmander.posicion, { x: 788, y: 140 });
+                prepararNuevaBatalla();
 
                 // PF3
                 gsap.to('#overlappingDiv', {